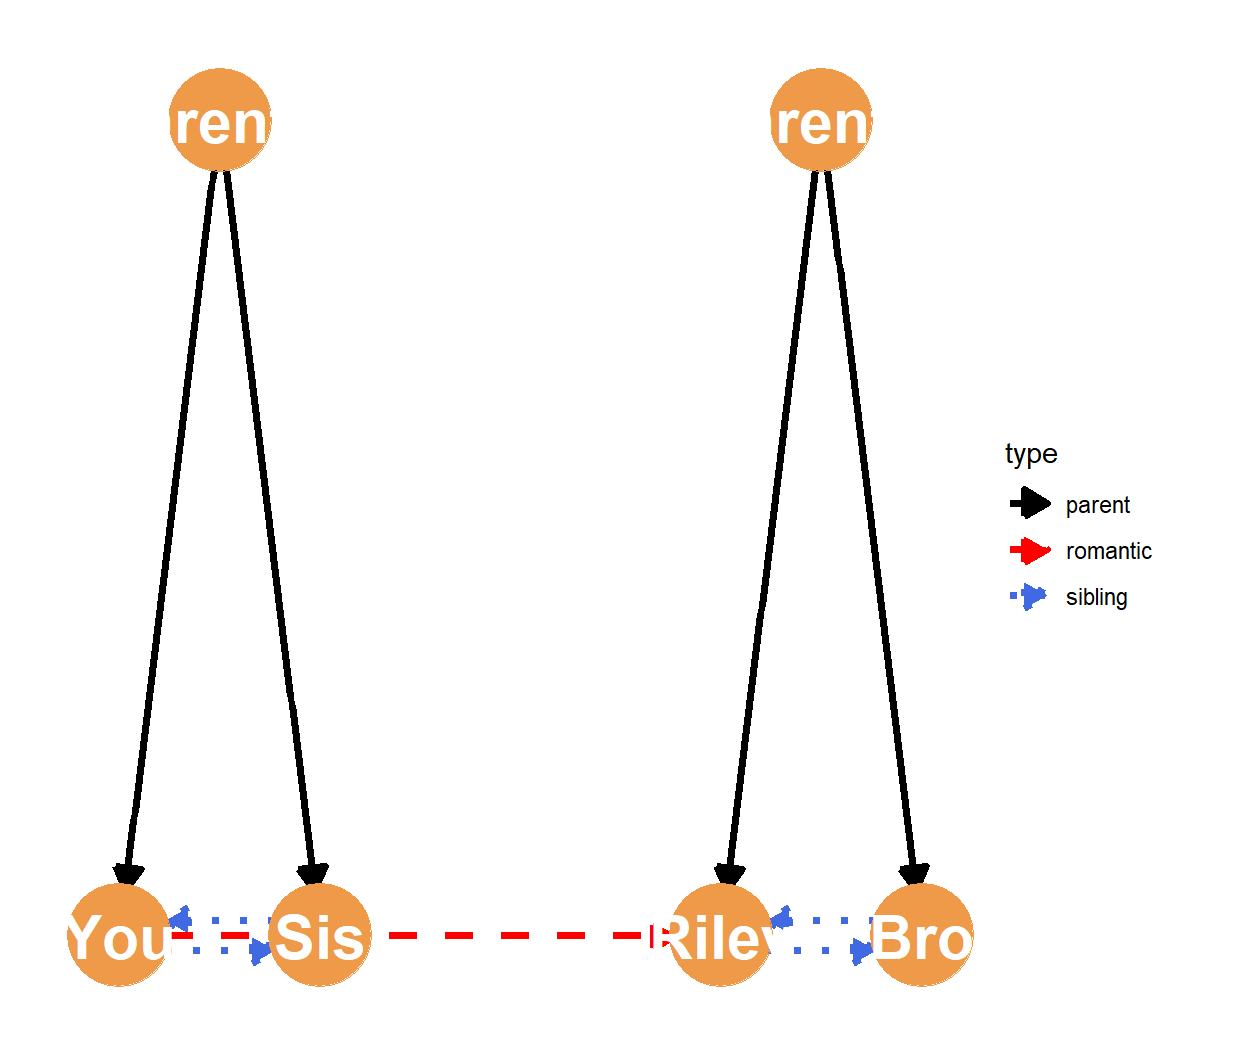
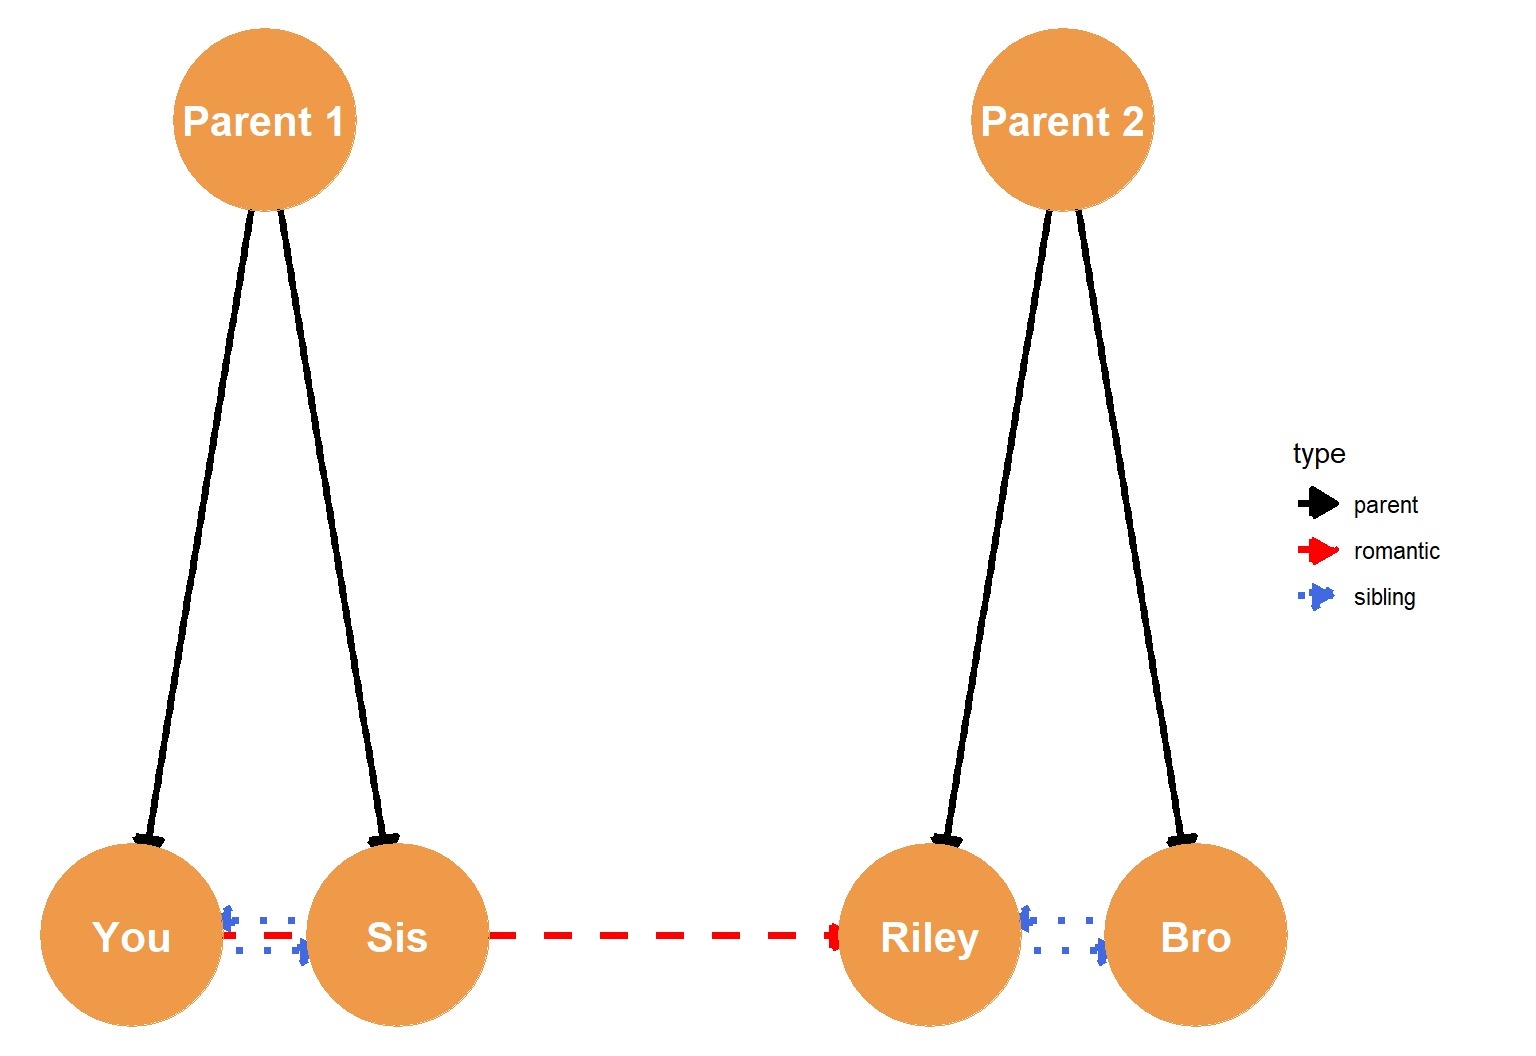
unca cosa

diff --git a/slides/ties-motifs.html b/slides/ties-motifs.html
@@ -468,28 +468,40 @@
 </ol></li>
 </ul>
 </section>
-<section id="network-growth-two-separate-systems" class="slide level2">
-<h2>Network Growth: Two Separate Systems</h2>
-<div class="columns" data-align="center">
-<div class="column" style="width:45%;">
+<section id="network-growth-connecting-systems" class="slide level2">
+<h2>Network Growth: Connecting Systems</h2>
 <ul>
-<li class="fragment">Networks grow by linking different types of ties across previously disconnected systems.</li>
-<li class="fragment">Consider two separate family trees:
+<li class="fragment">Social networks are highly dynamic, growing and evolving over time.</li>
+<li class="fragment">A classic example of network growth is <strong>connecting separate systems</strong>:
 <ul>
-<li class="fragment"><strong>Family 1</strong>: Parent 1, You, Sis (anti-symmetric parent-child ties, symmetric sibling tie).</li>
-<li class="fragment"><strong>Family 2</strong>: Parent 2, Riley, Bro (anti-symmetric parent-child ties, symmetric sibling tie).</li>
+<li class="fragment">We begin with two completely disconnected, independent family structures.</li>
+<li class="fragment"><strong>Family 1</strong>: Parent 1, You, Sis (linked by parent-child and sibling ties).</li>
+<li class="fragment"><strong>Family 2</strong>: Parent 2, Riley, Bro (linked by parent-child and sibling ties).</li>
 </ul></li>
-<li class="fragment">You and Riley fall in love!
+<li class="fragment">A romantic tie (an asymmetric, non-kin relation) forms between You and Riley:
 <ul>
-<li class="fragment">This creates an <strong>asymmetric romantic tie</strong> (red dashed arrow) between the two systems.</li>
+<li class="fragment"><em>You fall in love with Riley!</em></li>
+<li class="fragment">This creates a directed asymmetric bridge between the two families.</li>
 </ul></li>
 </ul>
-</div><div class="column" style="width:55%;">
+</section>
+<section id="two-separate-family-systems" class="slide level2">
+<h2>Two Separate Family Systems</h2>
+<div class="columns" data-align="center">
+<div class="column" style="width:25%;">
+<ul>
+<li class="fragment"><strong>Stage 1</strong>:
+<ul>
+<li class="fragment">Two distinct family trees.</li>
+<li class="fragment">Linked only by a directed, asymmetric romantic tie (red dashed arrow).</li>
+</ul></li>
+</ul>
+</div><div class="column" style="width:75%;">
 <div class="cell" data-layout-align="center">
 <div class="cell-output-display">
 <div class="quarto-figure quarto-figure-center">
 <figure>
-<p><img data-src="ties-motifs_files/figure-revealjs/unnamed-chunk-5-1.png" class="quarto-figure quarto-figure-center" width="624"></p>
+<p><img data-src="ties-motifs_files/figure-revealjs/unnamed-chunk-5-1.png" class="quarto-figure quarto-figure-center" width="768"></p>
 </figure>
 </div>
 </div>
@@ -498,26 +510,36 @@
 </section>
 <section id="network-growth-the-marriage-cascade" class="slide level2">
 <h2>Network Growth: The Marriage Cascade</h2>
-<div class="columns" data-align="center">
-<div class="column" style="width:45%;">
 <ul>
 <li class="fragment">You and Riley get married!
 <ul>
 <li class="fragment">The asymmetric romantic tie becomes a <strong>symmetric marriage tie</strong> (solid red).</li>
 </ul></li>
-<li class="fragment">This single event immediately triggers a cascade of new “in-law” ties:
+<li class="fragment">This single structural event immediately triggers a cascade of new “in-law” ties:
 <ul>
 <li class="fragment"><strong>Symmetric Sibling-in-Law</strong>: You <span class="math inline">\(\leftrightarrow\)</span> Bro, Riley <span class="math inline">\(\leftrightarrow\)</span> Sis (blue dotted).</li>
-<li class="fragment"><strong>Anti-Symmetric Parent-in-Law</strong>: Parent 1 $ ightarrow$ Riley, Parent 2 $ ightarrow$ You (dashed gray).</li>
+<li class="fragment"><strong>Anti-Symmetric Parent-in-Law</strong>: Parent 1 <span class="math inline">\(\rightarrow\)</span> Riley, Parent 2 <span class="math inline">\(\rightarrow\)</span> You (dashed gray).</li>
 </ul></li>
-<li class="fragment">The two families are now merged!</li>
+<li class="fragment">The marriage tie bridges the two systems, merging them into a single structure.</li>
 </ul>
-</div><div class="column" style="width:55%;">
+</section>
+<section id="the-merged-family-network" class="slide level2">
+<h2>The Merged Family Network</h2>
+<div class="columns" data-align="center">
+<div class="column" style="width:25%;">
+<ul>
+<li class="fragment"><strong>Stage 2</strong>:
+<ul>
+<li class="fragment">The marriage tie (solid red) bridges the families.</li>
+<li class="fragment">Triggers a cascade of symmetric and anti-symmetric in-law ties (gray).</li>
+</ul></li>
+</ul>
+</div><div class="column" style="width:75%;">
 <div class="cell" data-layout-align="center">
 <div class="cell-output-display">
 <div class="quarto-figure quarto-figure-center">
 <figure>
-<p><img data-src="ties-motifs_files/figure-revealjs/unnamed-chunk-6-1.png" class="quarto-figure quarto-figure-center" width="624"></p>
+<p><img data-src="ties-motifs_files/figure-revealjs/unnamed-chunk-6-1.png" class="quarto-figure quarto-figure-center" width="768"></p>
 </figure>
 </div>
 </div>
@@ -526,8 +548,6 @@
 </section>
 <section id="network-growth-adding-a-baby" class="slide level2">
 <h2>Network Growth: Adding a Baby</h2>
-<div class="columns" data-align="center">
-<div class="column" style="width:45%;">
 <ul>
 <li class="fragment">You and Riley have a baby!
 <ul>
@@ -535,18 +555,30 @@
 </ul></li>
 <li class="fragment">The baby adds a <strong>cascade of new anti-symmetric kinship ties</strong> to everyone in both systems:
 <ul>
-<li class="fragment">Parent-child to You/Riley.</li>
-<li class="fragment">Grandchild to Parent 1/Parent 2.</li>
-<li class="fragment">Niece/Nephew to Sis/Bro.</li>
+<li class="fragment">Parent-child to You/Riley (solid orange).</li>
+<li class="fragment">Grandchild to Parent 1/Parent 2 (dashed orange).</li>
+<li class="fragment">Niece/Nephew to Sis/Bro (dashed orange).</li>
 </ul></li>
 <li class="fragment">This child permanently anchors the two systems into a single, cohesive multiplex network.</li>
 </ul>
-</div><div class="column" style="width:55%;">
+</section>
+<section id="the-consolidated-kinship-network" class="slide level2">
+<h2>The Consolidated Kinship Network</h2>
+<div class="columns" data-align="center">
+<div class="column" style="width:25%;">
+<ul>
+<li class="fragment"><strong>Stage 3</strong>:
+<ul>
+<li class="fragment">The baby node permanently consolidates the family structure.</li>
+<li class="fragment">Adds new downward anti-symmetric ties to everyone in both families (orange).</li>
+</ul></li>
+</ul>
+</div><div class="column" style="width:75%;">
 <div class="cell" data-layout-align="center">
 <div class="cell-output-display">
 <div class="quarto-figure quarto-figure-center">
 <figure>
-<p><img data-src="ties-motifs_files/figure-revealjs/unnamed-chunk-7-1.png" class="quarto-figure quarto-figure-center" width="624"></p>
+<p><img data-src="ties-motifs_files/figure-revealjs/unnamed-chunk-7-1.png" class="quarto-figure quarto-figure-center" width="768"></p>
 </figure>
 </div>
 </div>
